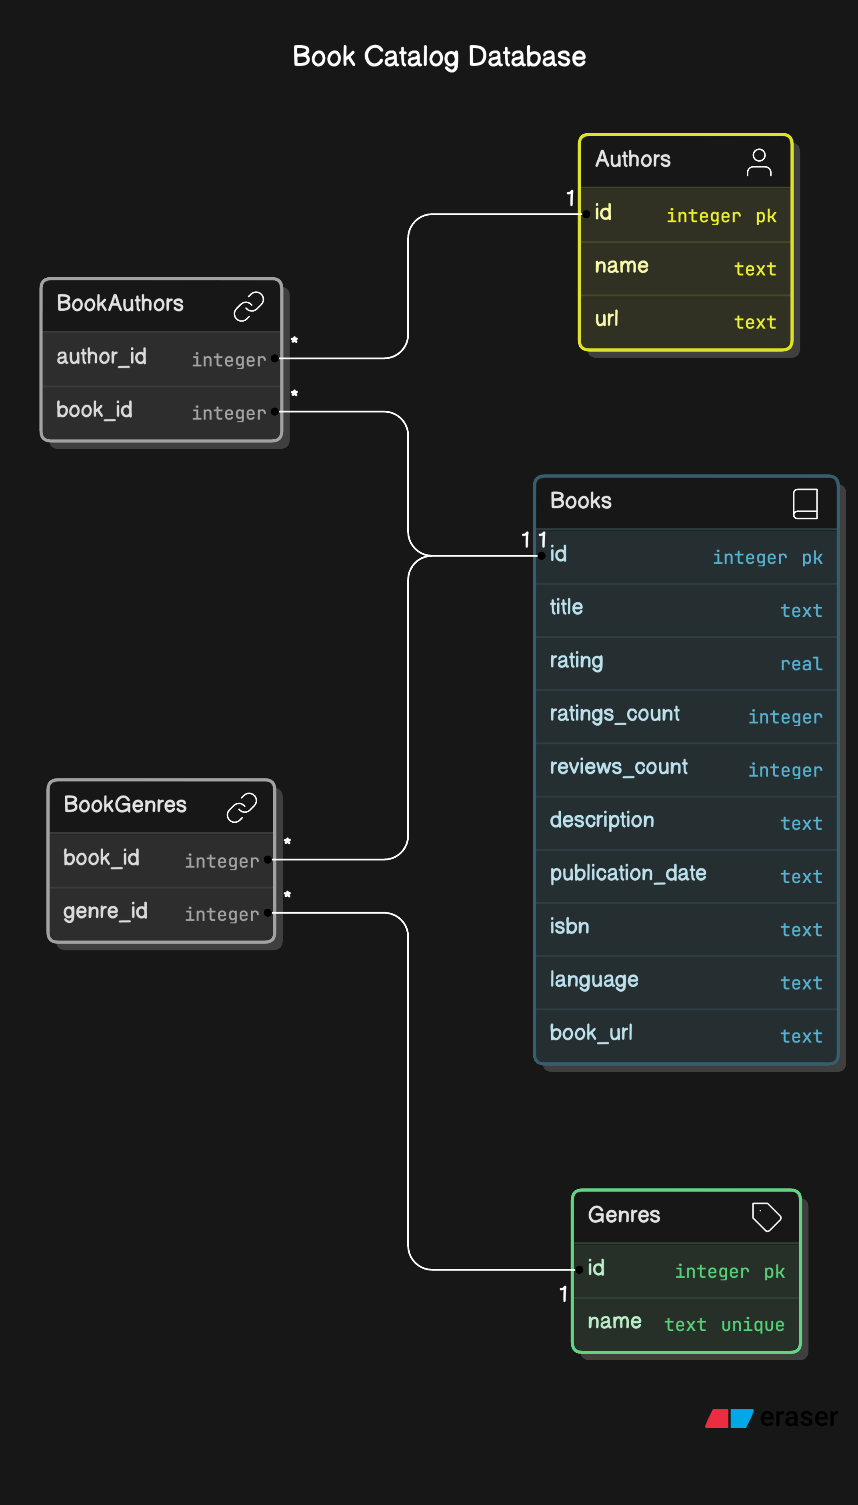
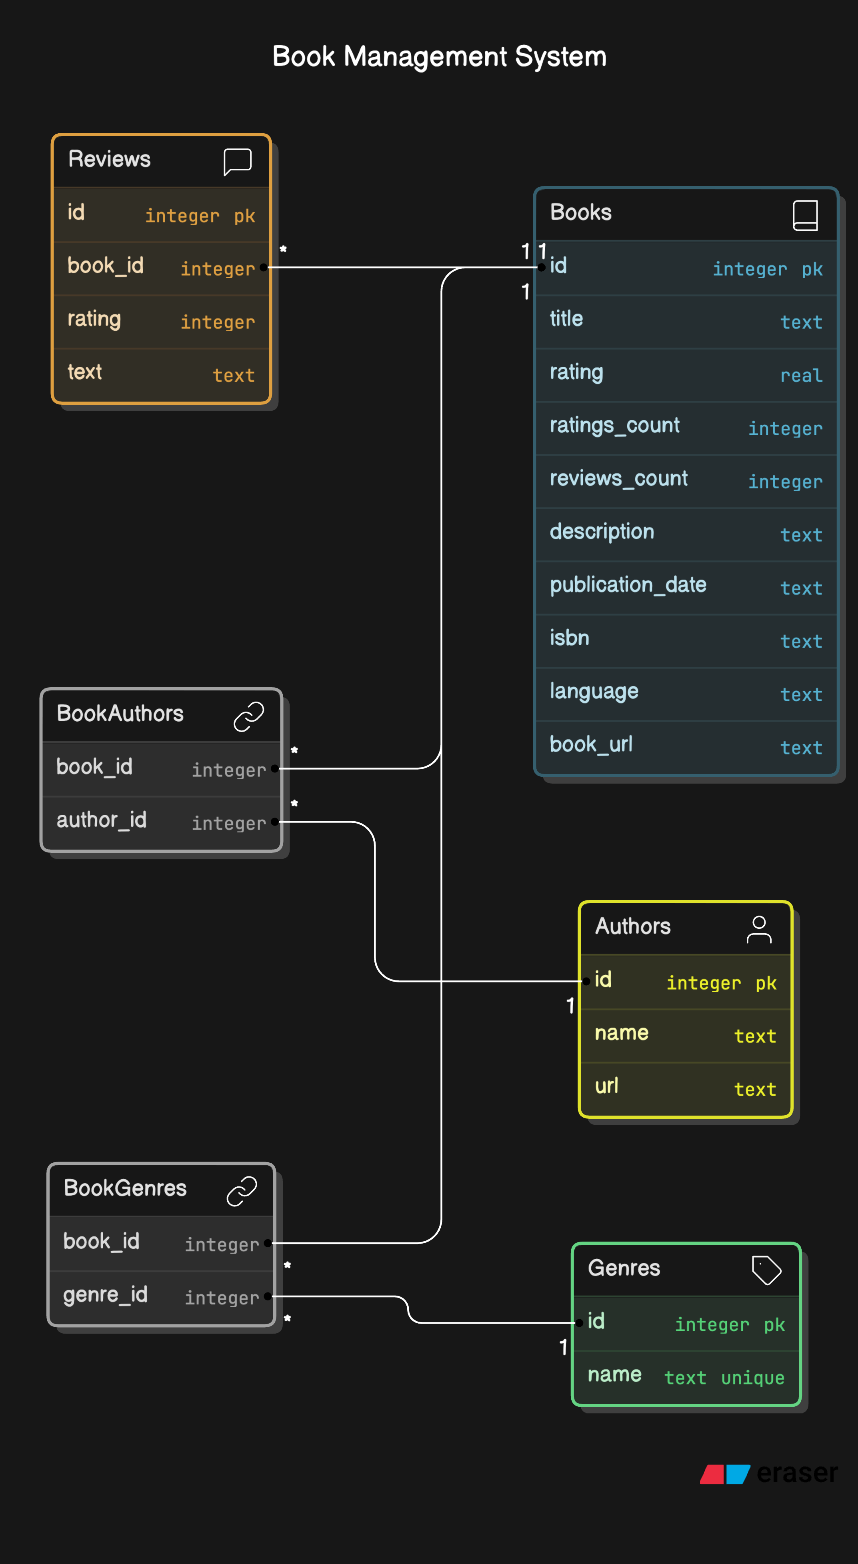
add reviews to database

diff --git a/database.py b/database.py
@@ -59,6 +59,17 @@ def create_tables():
     )
     ''')
 
+    # Create Reviews table
+    cursor.execute('''
+    CREATE TABLE IF NOT EXISTS Reviews (
+        id INTEGER PRIMARY KEY AUTOINCREMENT,
+        book_id INTEGER,
+        rating INTEGER,
+        text TEXT,
+        FOREIGN KEY (book_id) REFERENCES Books (id)
+    )
+    ''')
+
     conn.commit()
     conn.close()
 
@@ -85,6 +96,12 @@ def insert_book(book_data):
         cursor.execute('SELECT id FROM Genres WHERE name = ?', (genre,))
         genre_id = cursor.fetchone()[0]
         cursor.execute('INSERT INTO BookGenres (book_id, genre_id) VALUES (?, ?)', (book_id, genre_id))
+
+    for review in book_data.reviews:
+        cursor.execute('''
+        INSERT INTO Reviews (book_id, rating, text)
+        VALUES (?, ?, ?)
+        ''', (book_id, review.rating, review.text))
 
     conn.commit()
     conn.close() 

diff --git a/models.py b/models.py
@@ -25,7 +25,8 @@ class Book:
         pages: int = None,
         publication_date: str = None,
         isbn: str = None,
-        language: str = None
+        language: str = None,
+        reviews: list = None
     ):
         self.title = title
         self.authors = authors
@@ -39,8 +40,7 @@ class Book:
         self.publication_date = publication_date
         self.isbn = isbn
         self.language = language
-
-        self.reviews = list[BookReview]()
+        self.reviews = reviews or []
 
     def __repr__(self):
         return f"Book(title='{self.title}', authors={self.authors})"
